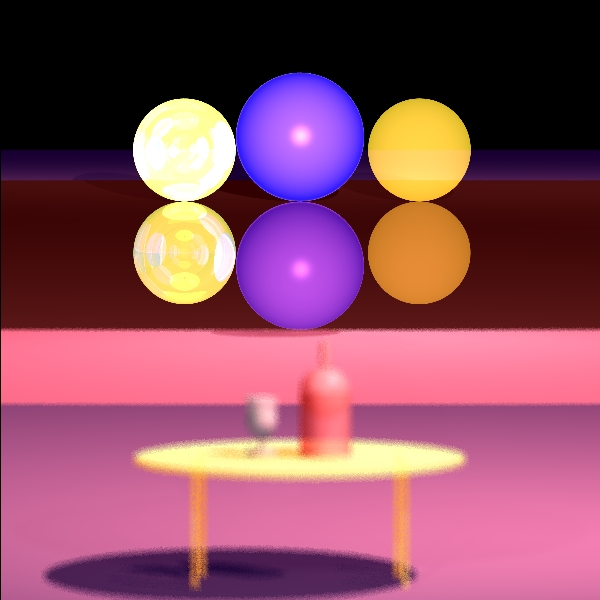
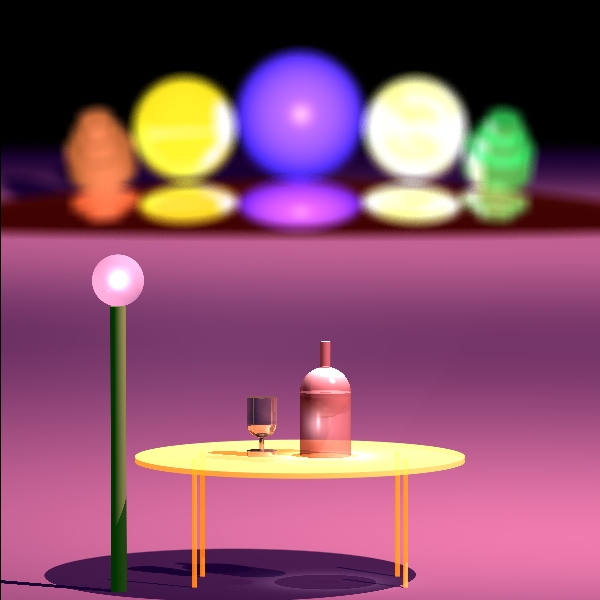
start stage 8 finish picture

diff --git a/UnitTests/UnitTests/DepthOfFieldTest.java b/UnitTests/UnitTests/DepthOfFieldTest.java
@@ -32,7 +32,7 @@ public class DepthOfFieldTest {
         scene.addLights(new SpotLight(new Color(700, 400, 400), //
                 new Point3D(60, -50, 0), new Vector(0, 0, 1), 1, 4E-5, 2E-7));
 
-        ImageWriter imageWriter = new ImageWriter("depthOfFieldTest", 200, 200, 600, 600);
+        ImageWriter imageWriter = new ImageWriter("depthOfFieldTest1", 200, 200, 600, 600);
         Render render = new Render(imageWriter, scene);
 
         render.renderImage();
@@ -43,7 +43,7 @@ public class DepthOfFieldTest {
     public void trianglesTransparentSphere2() {
         Scene scene = new Scene("Test scene");
         scene.setCamera(new Camera(new Point3D(0, 0, -1000), new Vector(0, 0, 1), new Vector(0, -1, 0),
-                1150, 12, 5, true));
+                1150, 16, 5, true));
         scene.setDistance(1000);
         scene.setBackground(Color.BLACK);
         scene.setAmbientLight(new AmbientLight(new Color(java.awt.Color.WHITE), 0.15));
@@ -71,7 +71,7 @@ public class DepthOfFieldTest {
     public void depthOfFieldFullImage() {
         Scene scene = new Scene("Test scene");
         scene.setCamera(new Camera(new Point3D(0, -120, -1000), new Vector(0, 0.05, 1), new Vector(0, -1, 0.05),
-                1175, 3, 9, true));
+                7000, 9, 9, true));
         scene.setDistance(1000);
         scene.setBackground(Color.BLACK);
         scene.setAmbientLight(new AmbientLight(Color.BLACK, 0.15));
@@ -79,6 +79,9 @@ public class DepthOfFieldTest {
 
         Plane plane = new Plane(new Color(25,0,51), new Material(0.5, 0.5, 60,0,0),
                         new Point3D(0,50,0),new Vector(0,1,0));
+
+        Sphere mirrorSphere =  new Sphere(new Color(60,0,0), new Material(0.05, 0.05, 60,0.0,0.9),
+                5000,new Point3D(0,4950,6000));
 
 
         Geometries lightBall = new Geometries(new Sphere(new Color(30,30,30),new Material(0.2, 0.2, 500,0.99,0),//
@@ -93,13 +96,13 @@ public class DepthOfFieldTest {
 
                 //legs of the table
                 new Cylinder(new Color(153,76,0), new Material(0.5, 0.5, 60,0.5,0),//
-                        1,new Ray(new Point3D(41,0,160),new Vector(0,1,0)), 60),
+                        1,new Ray(new Point3D(41,0,160),new Vector(0,1,0)), 50),
                 new Cylinder(new Color(153,76,0), new Material(0.5, 0.5, 60,0.5,0),//
-                        1,new Ray(new Point3D(-41,0,160),new Vector(0,1,0)), 60),
+                        1,new Ray(new Point3D(-41,0,160),new Vector(0,1,0)), 50),
                 new Cylinder(new Color(153,76,0), new Material(0.5, 0.5, 60,0.5,0),//
-                        1,new Ray(new Point3D(39,0,190),new Vector(0,1,0)), 60),
+                        1,new Ray(new Point3D(39,0,190),new Vector(0,1,0)), 50),
                 new Cylinder(new Color(153,76,0), new Material(0.5, 0.5, 60,0.5,0),//
-                        1,new Ray(new Point3D(-39,0,190),new Vector(0,1,0)), 60));
+                        1,new Ray(new Point3D(-39,0,190),new Vector(0,1,0)), 50));
 
         Geometries bottle = new Geometries(
                 new Cylinder(new Color(30,0,0), new Material(0.5, 0.5, 60,0.5,0),
@@ -110,13 +113,13 @@ public class DepthOfFieldTest {
                         10,new Point3D(10,-25,175)));
 
         Geometries KiddushCup = new Geometries(
-                new Cylinder(/*Color.BLACK*/new Color(32,32,32), new Material(0.4, 0.4, 60,0,0.2),
+                new Cylinder(/*Color.BLACK*/new Color(10,10,10), new Material(0.3, 0.2, 60,0.2,0.5),
                         6,new Ray(new Point3D(-15,0,175),new Vector(0,-1,0)), 2),
-                new Cylinder(/*Color.BLACK*/new Color(32,32,32), new Material(0.4, 0.4, 60,0,0.2),
+                new Cylinder(/*Color.BLACK*/new Color(10,10,10), new Material(0.3, 0.2, 60,0.2,0.5),
                         1,new Ray(new Point3D(-15,-2,175),new Vector(0,-1,0)), 5),
-                new Cylinder(/*Color.BLACK*/new Color(32,32,32), new Material(0.4, 0.4, 60,0,0.2),
+                new Cylinder(/*Color.BLACK*/new Color(10,10,10), new Material(0.3, 0.2, 60,0.2,0.5),
                         6,new Ray(new Point3D(-15,-13,175),new Vector(0,-1,0)), 10),
-                new Sphere(/*Color.BLACK*/new Color(32,32,32), new Material(0.4, 0.4, 60,0,0.2),
+                new Sphere(/*Color.BLACK*/new Color(10,10,10), new Material(0.3, 0.5, 60,0.2,0.5),
                         6,new Point3D(-15,-13,175)));
 
         Geometries balls = new Geometries(
@@ -125,39 +128,41 @@ public class DepthOfFieldTest {
                 new Sphere(new Color(200,200,0), new Material(0.1, 0.1 ,0,0,0.8),
                         120,new Point3D(-270,-170,6000)),
                 new Sphere(new Color(0,50,0), new Material(0.1, 0.1 ,0,0.8,0.8),
-                        120,new Point3D(270,-170,6000)),
-                new Sphere(new Color(60,0,0), new Material(0.05, 0.05, 60,0.0,0.9),
-                        5000,new Point3D(0,4950,6000))
+                        120,new Point3D(270,-170,6000))
         );
 
         Geometries cylinders = new Geometries(
-                new Cylinder(new Color(0,93,25), new Material(0.2, 0.2, 60,0,0.6),
+                new Cylinder(new Color(0,150,50), new Material(0.2, 0.2, 60,0,0.6),
                         80,new Ray(new Point3D(460,-70,6000),new Vector(0.1,-1,-0.7)), 70),
-                new Cylinder(new Color(0,93,25), new Material(0.2, 0.2, 60,0,0.6),
+                new Cylinder(new Color(0,150,50), new Material(0.2, 0.2, 60,0,0.6),
                         60,new Ray(new Point3D(460,-70,6000),new Vector(0.1,-1,-0.7)), 110),
-                new Cylinder(new Color(0,93,25), new Material(0.2, 0.2, 60,0,0.6),
+                new Cylinder(new Color(0,150,50), new Material(0.2, 0.2, 60,0,0.6),
                         40,new Ray(new Point3D(460,-70,6000),new Vector(0.1,-1,-0.7)), 150),
-                new Cylinder(new Color(102,71,0), new Material(0.5, 0.5, 60,0,0),
+                new Cylinder(new Color(100,50,0), new Material(0.5, 0.5, 60,0,0),
                         80,new Ray(new Point3D(-460,-70,6000),new Vector(-0.1,-1,-0.7)), 70),
-                new Cylinder(new Color(102,71,0), new Material(0.5, 0.5, 60,0,0),
+                new Cylinder(new Color(100,50,0), new Material(0.5, 0.5, 60,0,0),
                         60,new Ray(new Point3D(-460,-70,6000),new Vector(-0.1,-1,-0.7)), 110),
-                new Cylinder(new Color(102,71,0), new Material(0.5, 0.5, 60,0,0),
+                new Cylinder(new Color(100,50,0), new Material(0.5, 0.5, 60,0,0),
                         40,new Ray(new Point3D(-460,-70,6000),new Vector(-0.1,-1,-0.7)), 150)
         );
 
-        scene.addGeometries(table, bottle, plane, KiddushCup , balls, cylinders,lightBall);
+        scene.addGeometries(plane, mirrorSphere, table, bottle, KiddushCup , balls, cylinders, lightBall);
 
 
         scene.addLights(
-                new PointLight(new Color(500,500,500),//
-                        new Point3D(-70,-70,150), 1, 4E-3, 2E-5 ),
-                new SpotLight(new Color(700, 400, 400), //
+                /*new PointLight(new Color(100,100,100),//
+                        new Point3D(-70,-70,150), 1, 4E-3, 2E-5 ),*/
+                new SpotLight(new Color(700, 400, 400),
                         new Point3D(200, -350, 5), new Vector(-1, 1, 4), 1, 4E-6, 2E-8),
-                new ImprovedSpot(new Color(300, 300, 300),
-                        new Point3D(10,-100,175), new Vector(0, 1, 0), 1, 0.0001, 0.000005, 50)
+                new ImprovedSpot(new Color(700, 700, 700),
+                        new Point3D(10,-100,175), new Vector(0, 1, 0), 1, 0.0001, 0.000005, 100),
+                new ImprovedSpot(new Color(700, 700, 700),
+                        new Point3D(-70,-70,120), new Vector(0, 0, 1), 1, 0.0001, 0.000005, 200),
+                new ImprovedSpot(new Color(200, 200, 200),
+                        new Point3D(-2.5,-13,150), new Vector(0.5, 0, 1), 1, 0.0001, 0.000005, 20)
         );
 
-        ImageWriter imageWriter = new ImageWriter("depthOfFieldFullImage_trySpot_5", 200, 200, 600, 600);
+        ImageWriter imageWriter = new ImageWriter("depthOfFieldFullImage_trySpot3", 200, 200, 600, 600);
         Render render = new Render(imageWriter, scene);
 
         render.renderImage();
